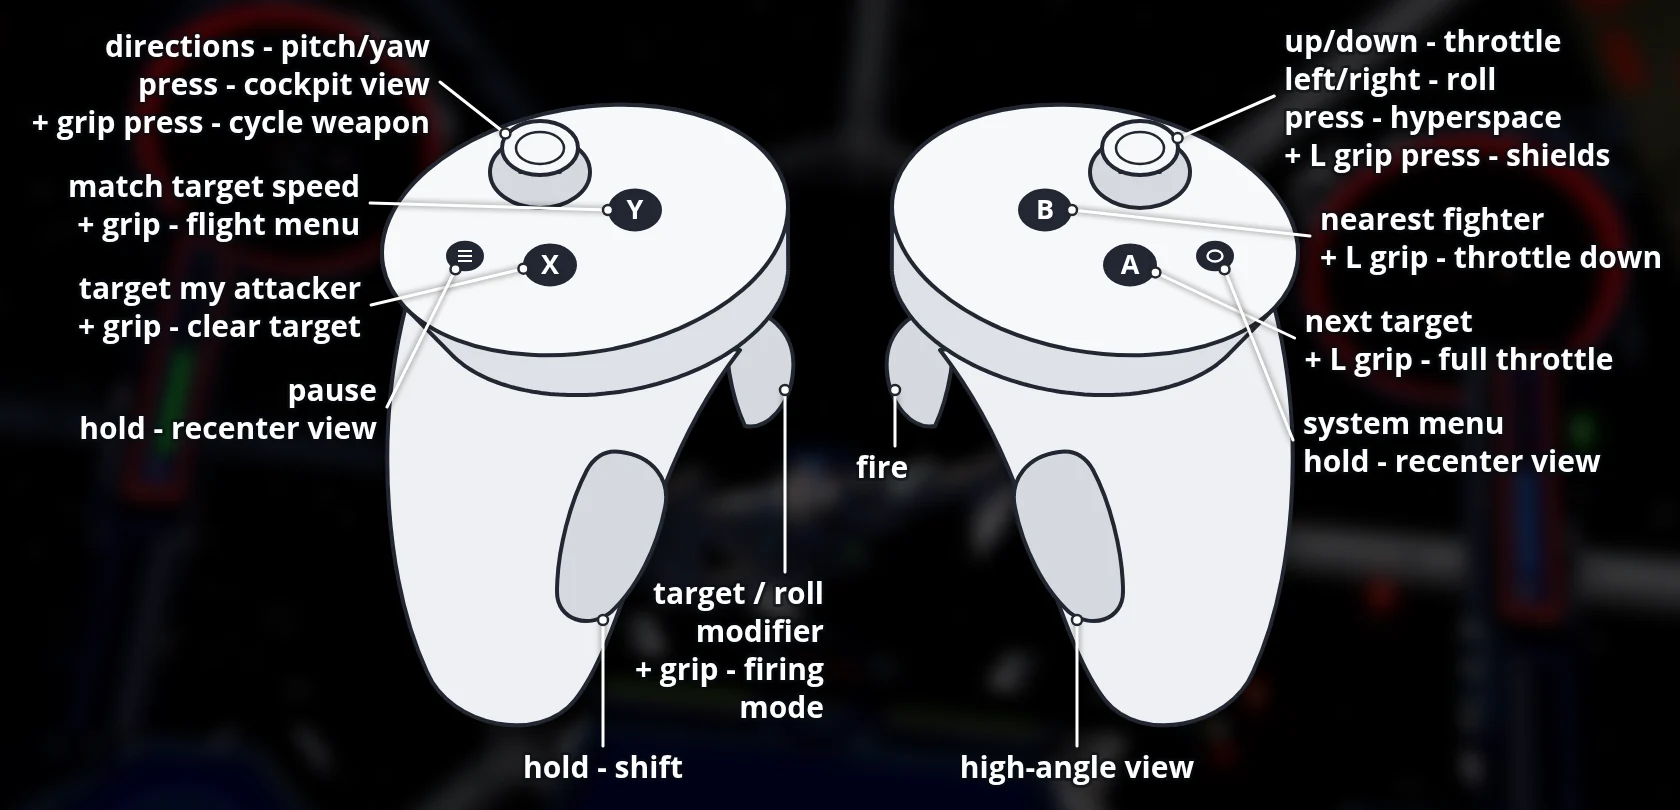
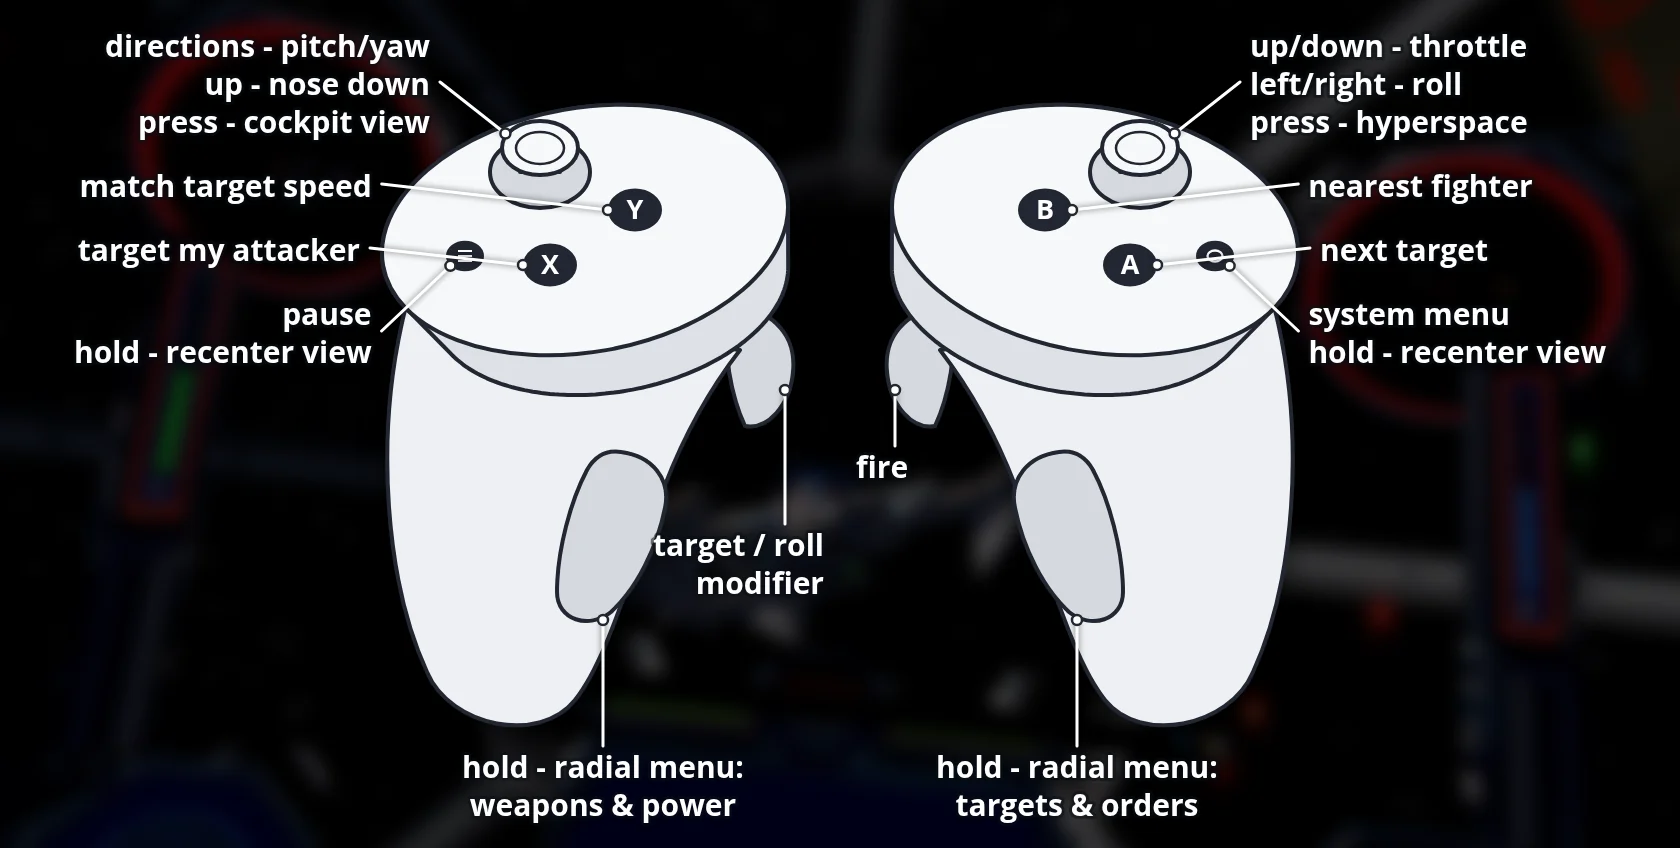
README-QUEST: radial menus, inverted pitch, controller picture, Aeron submodule link

diff --git a/README-QUEST.md b/README-QUEST.md
@@ -57,7 +57,7 @@ remapped in Settings > Controller):
 
 | Input | Action |
 |---|---|
-| Left stick | Pitch and yaw |
+| Left stick | Pitch and yaw (up = nose down, like a flight stick) |
 | Right stick left/right | Roll |
 | Right stick up/down | Throttle lever (stays where you leave it) |
 | Right trigger | Fire |
@@ -109,14 +109,15 @@ CMake, Ninja, Python 3.
     tools/quest/deploy.sh          # install, copy game data once, launch
 
 VR code: `src/tie_vr/` (OpenXR session, input, layers; `tie_vr.c` is
-generated from OpenXWA-VR's `xwa_vr.c` by `tools/quest/gen_tie_vr.py`),
+generated from OpenXWA-VR's `xwa_vr.c` by `tools/quest/gen_tie_vr.py`;
+radial menus in `vr_radial_menu.c` and `tools/quest/tie_vr_radial.inc.c`),
 `src/tie_remaster/vr_stereo.*` and `flight/passes.c` (per-eye rendering),
 `tools/quest/gen_vr_cockpit.py` (3D cockpit model),
 `tools/quest/gen_revival_cockpits.py` (X-Wing Revival cockpits, converted
 at build time from Revival's free game data; set `XW_REVIVAL_DATA` to its
 `gamedata` folder), `src/tie_app/vr_keyboard.*`
-(on-screen keyboard) and the `quest-vr-tie` branch of the
-[Aeron engine fork](https://github.com/SgtBilko76/Aeron/tree/quest-vr-tie).
+(on-screen keyboard) and the Quest VR engine changes in the `aeron`
+submodule ([Aeron commit 33bd7b7](https://github.com/elyosh/Aeron/tree/33bd7b732ae636f6c6a89bfb350372aad6f6a2ce)).
 
 ## Credits
 
